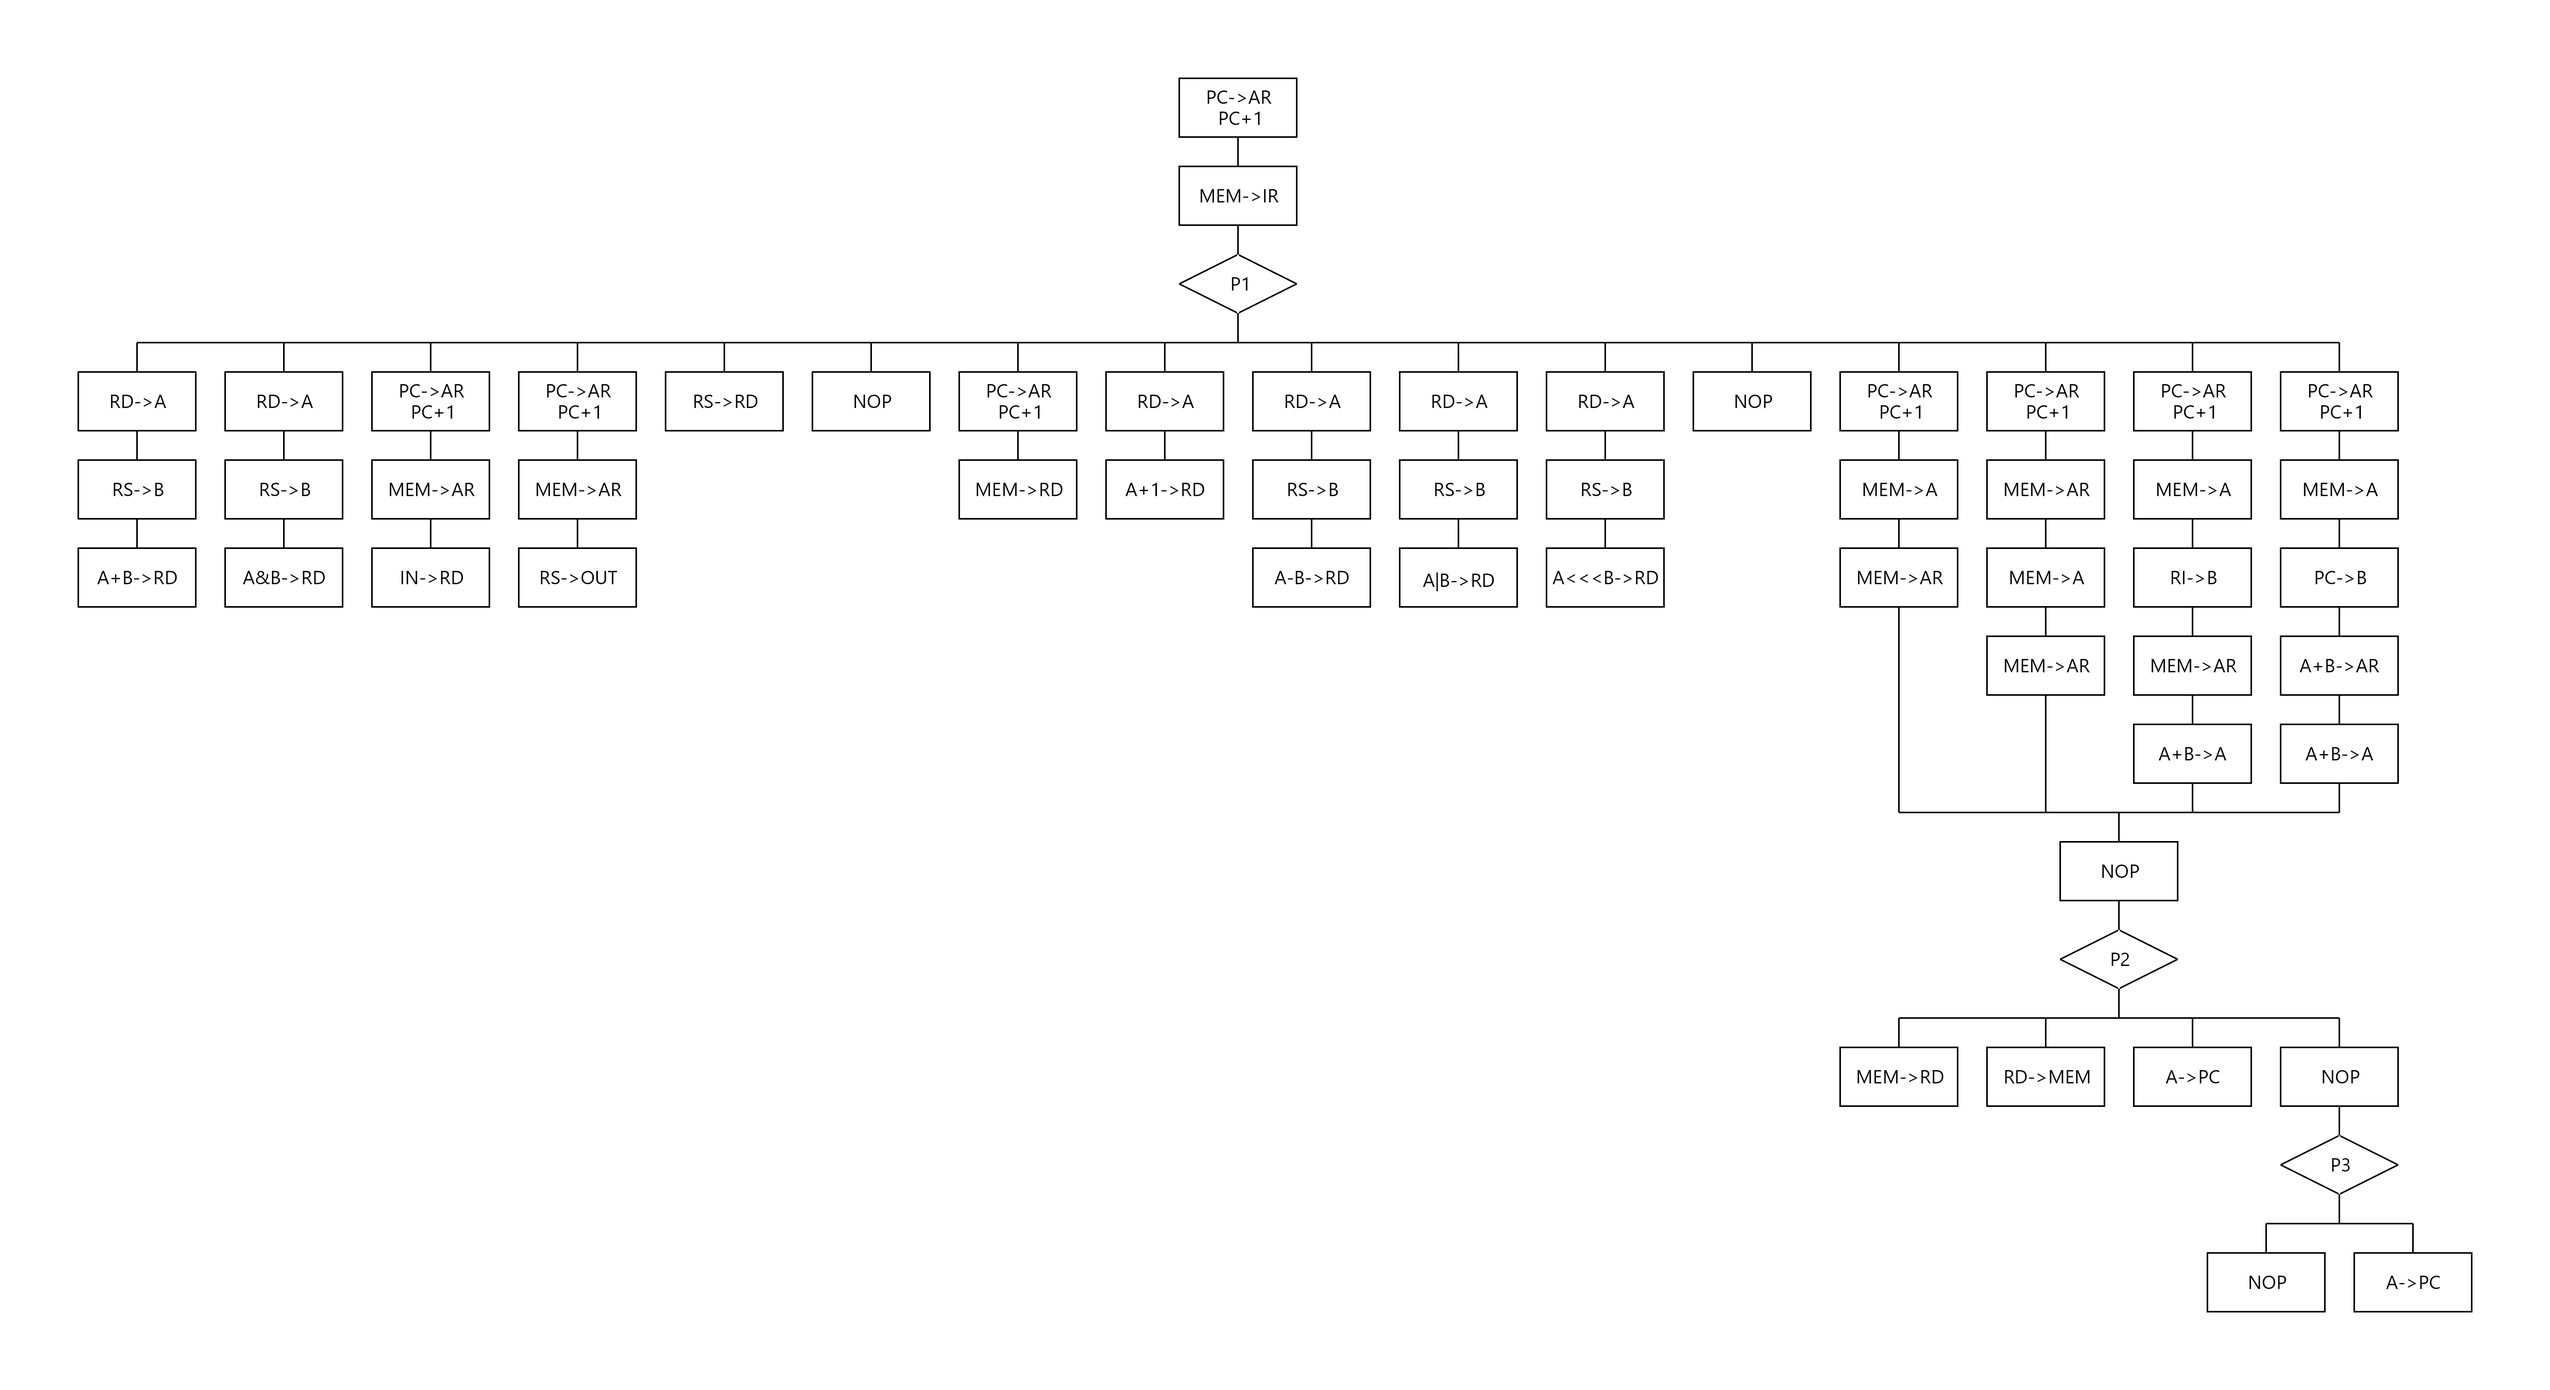
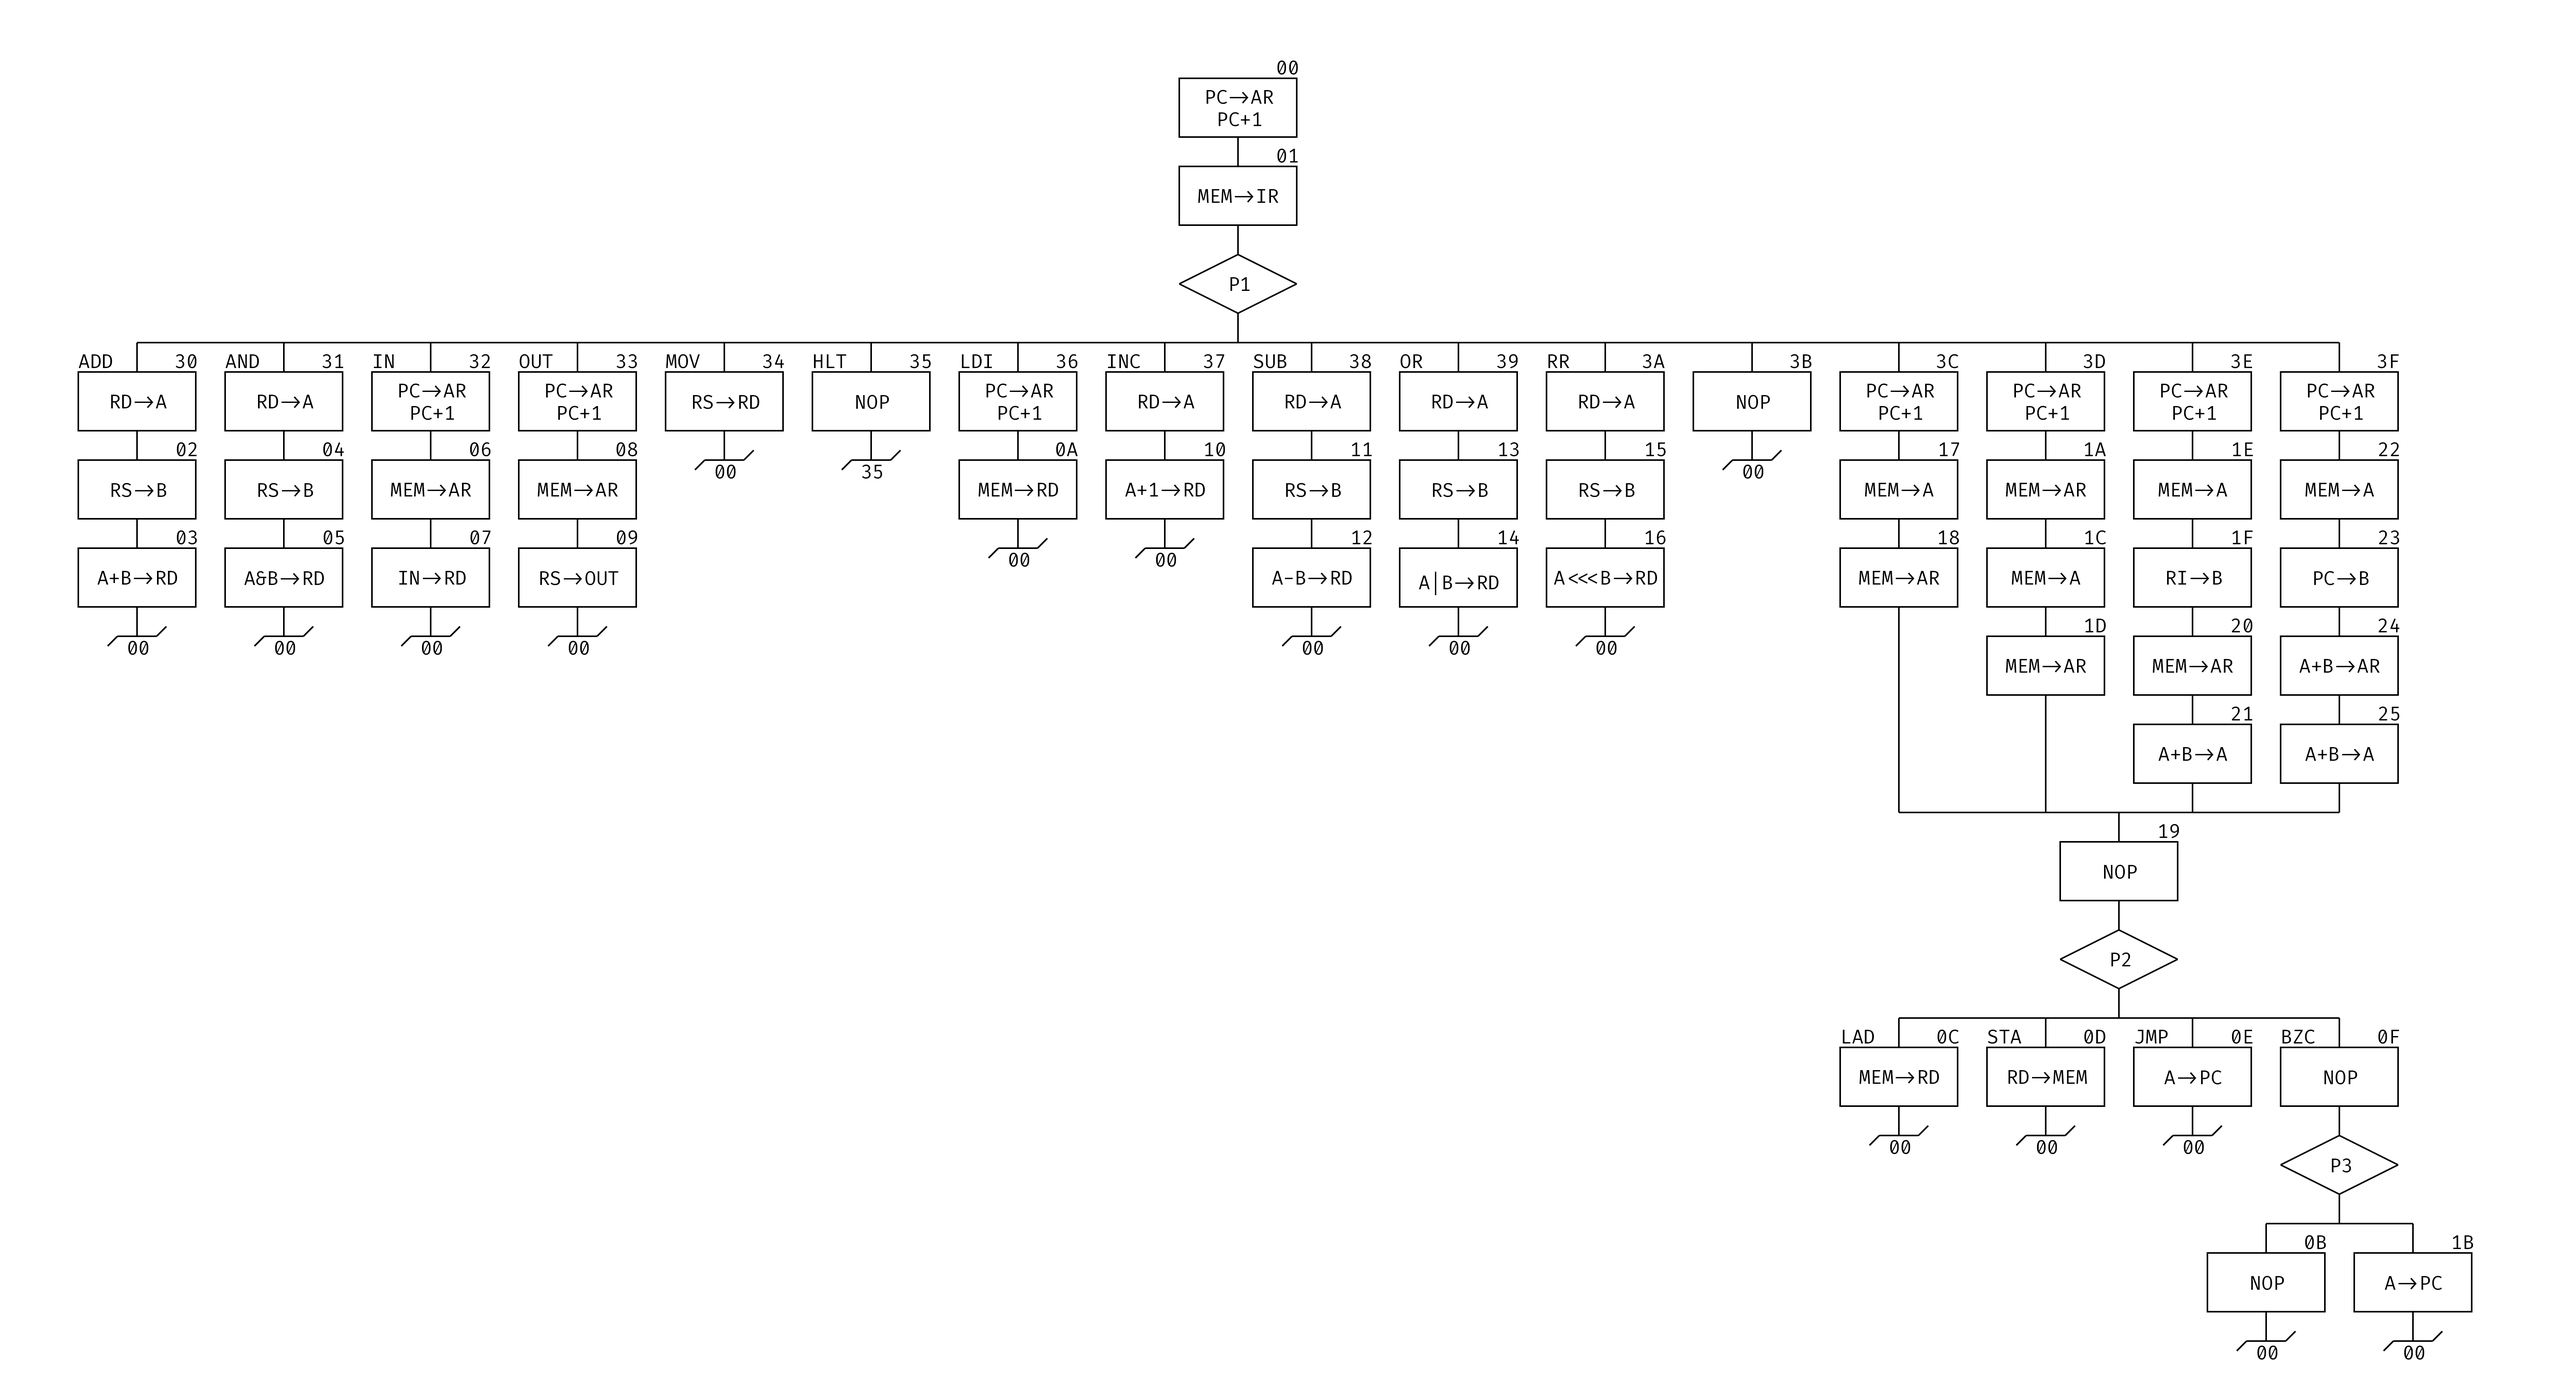
流程图添加位置标记，指令标记和公操作符

diff --git a/TD-CMA Kit/FlowDiagram.cs b/TD-CMA Kit/FlowDiagram.cs
@@ -1,6 +1,8 @@
 using SkiaSharp;
+using SkiaSharp.HarfBuzz;
 using System;
 using System.Collections.Generic;
+using System.Drawing;
 using System.IO;
 using System.Linq;
 using System.Text;
@@ -22,7 +24,7 @@ namespace TD_CMAKit
             Dictionary<CodeNode, (int x, int y)> nodeLayout = new();
             (int width, int height) = BuildLayout(node, nodeLayout);
             SKBitmap bitmap = new(new SKImageInfo(width, height));
-            FillLayout(node, nodeLayout, bitmap);
+            FillLayout(nodeLayout, bitmap);
             SaveImage(imgFilePath, bitmap);
         }
 
@@ -34,7 +36,7 @@ namespace TD_CMAKit
             data.SaveTo(stream);
         }
 
-        private static void FillLayout(CodeNode node, Dictionary<CodeNode, (int x, int y)> nodeLayout, SKBitmap bitmap)
+        private static void FillLayout(Dictionary<CodeNode, (int x, int y)> nodeLayout, SKBitmap bitmap)
         {
             using SKCanvas canvas = new(bitmap);
             canvas.DrawColor(SKColors.White);
@@ -49,96 +51,179 @@ namespace TD_CMAKit
                     StrokeWidth = 4
                 };
 
-                SKPaint whitePaint = new()
-                {
-                    Color = SKColors.White,
-                    IsAntialias = true,
-                    Style = SKPaintStyle.Stroke,
-                    StrokeWidth = 4
-                };
                 canvas.DrawRect(x - BoxWidth / 2, y - BoxHeight / 2, BoxWidth, BoxHeight, blackPaint);
 
                 SKPaint fontPaint = new()
                 {
                     Color = SKColors.Black,
                     TextSize = 48,
-                    Typeface = SKTypeface.FromFamilyName("黑体"),
+                    Typeface = SKTypeface.FromFamilyName("Fira Code"),
                     IsAntialias = true
                 };
 
-                string[] tmp = codeNode.Code.Split('=');
-                string code;
-                bool twoLine = false;
-                if (tmp.Length == 1)
-                {
-                    code = codeNode.Code;
-                }
-                else
-                {
-                    if (tmp[1] == "PC++")
-                    {
-                        code = "PC->" + tmp[0];
-                        twoLine = true;
-                    }
-                    else
-                    {
-                        code = tmp[1] + "->" + tmp[0];
-                    }
-                }
-
-
-                if (twoLine)
-                {
-                    SKRect size1 = new();
-                    fontPaint.MeasureText(code, ref size1);
-                    SKRect size2 = new();
-                    fontPaint.MeasureText("PC+1", ref size2);
-                    float halfh = (size1.Height + 20 + size2.Height) / 2;
-                    canvas.DrawText(code, x - size1.Width / 2, y - halfh + size1.Height, fontPaint);
-                    canvas.DrawText("PC+1", x - size2.Width / 2, y + halfh, fontPaint);
-                }
-                else
-                {
-                    SKRect size = new();
-                    fontPaint.MeasureText(code, ref size);
-                    canvas.DrawText(code, x - size.Width / 2, y + size.Height / 2, fontPaint);
-                }
+                DrawCode(codeNode, x, y, canvas, fontPaint);
+                DrawPlace(codeNode, x, y, canvas, fontPaint);
+                DrawLabel(codeNode, x, y, canvas, fontPaint);
 
                 if (codeNode.NotProcessNext)
                 {
+                    DrawEnd(codeNode, x, y, canvas, blackPaint, fontPaint);
                     continue;
                 }
 
                 foreach (CodeNode nextNode in codeNode.NextNodes)
                 {
                     (int nx, int ny) = nodeLayout[nextNode];
-                    int dx = nx - x;
-                    int dy = ny - y;
-                    dy -= BoxHeight / 2;
-                    canvas.DrawLine(x, y + BoxHeight / 2, x, y + dy - ArrowHeight, blackPaint);
-                    canvas.DrawLine(x + dx, y + dy - ArrowHeight, x, y + dy - ArrowHeight, blackPaint);
-                    canvas.DrawLine(x + dx, y + dy - ArrowHeight, x + dx, y + dy, blackPaint);
+                    DrawArrow(x, y, nx, ny, canvas, blackPaint);
                 }
 
-                if (codeNode.HasTest != 0)
-                {
-                    float cx = x;
-                    float cy = y + BoxHeight + ArrowHeight;
-                    float xl = cx - BoxWidth / 2;
-                    float yb = cy - BoxHeight / 2;
-                    float xr = cx + BoxWidth / 2;
-                    float yt = cy + BoxHeight / 2;
-                    canvas.DrawLine(xl, cy, cx, yb, blackPaint);
-                    canvas.DrawLine(cx, yb, xr, cy, blackPaint);
-                    canvas.DrawLine(xr, cy, cx, yt, blackPaint);
-                    canvas.DrawLine(cx, yt, xl, cy, blackPaint);
-                    canvas.DrawLine(cx, yt, cx, yb, whitePaint);
+                DrawTestDiamond(codeNode, x, y, canvas, blackPaint, fontPaint);
+            }
+        }
 
-                    SKRect size = new SKRect();
-                    fontPaint.MeasureText($"P{codeNode.HasTest}", ref size);
-                    canvas.DrawText($"P{codeNode.HasTest}", x - size.Width / 2, y + ArrowHeight + BoxHeight + size.Height / 2, fontPaint);
+        private static void DrawArrow(int x, int y, int nx, int ny, SKCanvas canvas, SKPaint paint)
+        {
+            int dx = nx - x;
+            int dy = ny - y;
+            dy -= BoxHeight / 2;
+
+            canvas.DrawLine(x, y + BoxHeight / 2, x, y + dy - ArrowHeight, paint);
+            canvas.DrawLine(x + dx, y + dy - ArrowHeight, x, y + dy - ArrowHeight, paint);
+            canvas.DrawLine(x + dx, y + dy - ArrowHeight, x + dx, y + dy, paint);
+        }
+
+        private static void DrawTestDiamond(CodeNode codeNode, int x, int y, SKCanvas canvas, SKPaint paint, SKPaint fontPaint)
+        {
+            SKPaint whitePaint = new()
+            {
+                Color = SKColors.White,
+                IsAntialias = true,
+                Style = SKPaintStyle.Stroke,
+                StrokeWidth = 4
+            };
+
+            if (codeNode.HasTest == 0) return;
+
+            float cx = x;
+            float cy = y + BoxHeight + ArrowHeight;
+            float xl = cx - BoxWidth / 2;
+            float yb = cy - BoxHeight / 2;
+            float xr = cx + BoxWidth / 2;
+            float yt = cy + BoxHeight / 2;
+            canvas.DrawLine(cx, yt, cx, yb, whitePaint);
+            canvas.DrawLine(xl, cy, cx, yb, paint);
+            canvas.DrawLine(cx, yb, xr, cy, paint);
+            canvas.DrawLine(xr, cy, cx, yt, paint);
+            canvas.DrawLine(cx, yt, xl, cy, paint);
+
+            SKRect size = new();
+            fontPaint.MeasureText($"P{codeNode.HasTest}", ref size);
+            canvas.DrawText($"P{codeNode.HasTest}", x - size.Width / 2, y + ArrowHeight + BoxHeight + size.Height / 2,
+                fontPaint);
+        }
+
+        private static void DrawCode(CodeNode codeNode, int x, int y, SKCanvas canvas, SKPaint fontPaint)
+        {
+            string[] tmp = codeNode.Code.Split('=');
+            string code;
+            bool twoLine = false;
+
+            if (tmp.Length == 1)
+            {
+                code = codeNode.Code;
+            }
+            else
+            {
+                if (tmp[1] == "PC++")
+                {
+                    code = "PC->" + tmp[0];
+                    twoLine = true;
+                }
+                else
+                {
+                    code = tmp[1] + "->" + tmp[0];
                 }
             }
+
+            if (twoLine)
+            {
+                SKRect size1 = new();
+                fontPaint.MeasureText(code, ref size1);
+                SKRect size2 = new();
+                fontPaint.MeasureText("PC+1", ref size2);
+                float halfh = (size1.Height + 20 + size2.Height) / 2;
+                canvas.DrawShapedText(code, x - size1.Width / 2, y - halfh + size1.Height, fontPaint);
+                canvas.DrawShapedText("PC+1", x - size2.Width / 2, y + halfh, fontPaint);
+            }
+            else
+            {
+                SKRect size = new();
+                fontPaint.MeasureText(code, ref size);
+                canvas.DrawShapedText(code, x - size.Width / 2, y + size.Height / 2, fontPaint);
+            }
+        }
+
+        private static void DrawPlace(CodeNode codeNode, int x, int y, SKCanvas canvas, SKPaint fontPaint)
+        {
+            SKRect size = new();
+            string place = $"{codeNode.PlaceInReal:X2}";
+            fontPaint.MeasureText(place, ref size);
+            canvas.DrawShapedText(place, x + BoxWidth / 2 - size.Width, y - BoxHeight / 2 - 10,
+                fontPaint);
+        }
+
+        private static void DrawLabel(CodeNode codeNode, int x, int y, SKCanvas canvas, SKPaint fontPaint)
+        {
+            if (codeNode.StartOfLabel is null)
+            {
+                return;
+            }
+
+            string label = codeNode.StartOfLabel;
+
+            if (!label.EndsWith('#'))
+            {
+                return;
+            }
+
+            label = label.Trim('!', '#');
+            SKRect size = new();
+            fontPaint.MeasureText(label, ref size);
+
+            float tx = x - BoxWidth / 2;
+
+            if (size.Width + 5 > BoxWidth / 2)
+            {
+                tx = x - size.Width - 5;
+            }
+
+            float ty = y - BoxHeight / 2 - 10;
+
+            canvas.DrawShapedText(label, tx, ty, fontPaint);
+        }
+
+        private static void DrawEnd(CodeNode codeNode, int x, int y, SKCanvas canvas, SKPaint paint, SKPaint fontPaint)
+        {
+            int nextPlace = codeNode.NextNodes[0].PlaceInReal;
+            string place = $"{nextPlace:X2}";
+
+            float cy = y + BoxHeight / 2 + ArrowHeight;
+
+            SKPoint pl = new(x - 50, cy);
+            SKPoint pll = new(pl.X - 25, pl.Y + 25);
+            SKPoint pr = new(x + 50, cy);
+            SKPoint prr = new(pr.X + 25, pr.Y - 25);
+
+            canvas.DrawLine(x, y + BoxHeight / 2, x, cy, paint);
+
+            canvas.DrawLine(pll, pl, paint);
+            canvas.DrawLine(pl, pr, paint);
+            canvas.DrawLine(pr, prr, paint);
+
+            SKRect size = new();
+            fontPaint.MeasureText(place, ref size);
+
+            canvas.DrawShapedText(place, x - size.Width / 2, cy + 10 + size.Height, fontPaint);
         }
 
         private static (int width, int height) BuildLayout(CodeNode node, Dictionary<CodeNode, (int x, int y)> nodeLayout)

diff --git a/TD-CMA Kit/MicrocodeCompiler.cs b/TD-CMA Kit/MicrocodeCompiler.cs
@@ -59,6 +59,9 @@ namespace TD_CMAKit
 
             internal int PlaceInReal { get; set; }
 
+            /// <summary>
+            /// 此 Label 包含 ! # 等标记
+            /// </summary>
             internal string StartOfLabel { get; set; }
 
             /// <summary>
@@ -72,6 +75,8 @@ namespace TD_CMAKit
             /// 只由 CompileTest 改写 
             /// </summary>
             internal int HasTest { get; set; }
+
+            internal int FromTest { get; set; }
 
             internal string Code { get; set; }
 
@@ -377,7 +382,7 @@ namespace TD_CMAKit
             }
 
             compiledLabel.Add(label);
-            codeNode.StartOfLabel = label;
+            codeNode.StartOfLabel = GetFullLabel(label);
 
             // 如果进入一条指令，先标记第一个 Node 
             if (IsInstruct(label))
@@ -471,6 +476,11 @@ namespace TD_CMAKit
             }
         }
 
+        private string GetFullLabel(string label)
+        {
+            return codes[labelTable[label] - 1].Trim('.', ':');
+        }
+
         private bool IsInstruct(string label)
         {
             return codes[labelTable[label] - 1].Trim(',', ':').EndsWith('#');
@@ -555,6 +565,7 @@ namespace TD_CMAKit
                 CodeNode branchNode = new()
                 {
                     Opcode = CalcCertainOpcode(offset, 4),
+                    FromTest = 4
                 };
                 codeNode.NextNodes.Add(branchNode);
                 codeNode.HasTest = 4;
@@ -585,6 +596,7 @@ namespace TD_CMAKit
                 CodeNode branchNode = new()
                 {
                     Opcode = CalcCertainOpcode(offset, 3),
+                    FromTest = 3
                 };
                 codeNode.NextNodes.Add(branchNode);
                 codeNode.HasTest = 3;
@@ -616,6 +628,7 @@ namespace TD_CMAKit
                 CodeNode branchNode = new()
                 {
                     Opcode = CalcCertainOpcode(offset, 2),
+                    FromTest = 2
                 };
                 codeNode.NextNodes.Add(branchNode);
                 codeNode.HasTest = 2;
@@ -647,6 +660,7 @@ namespace TD_CMAKit
                 CodeNode branchNode = new()
                 {
                     Opcode = CalcCertainOpcode(offset, 1),
+                    FromTest = 1
                 };
                 codeNode.NextNodes.Add(branchNode);
                 codeNode.HasTest = 1;
